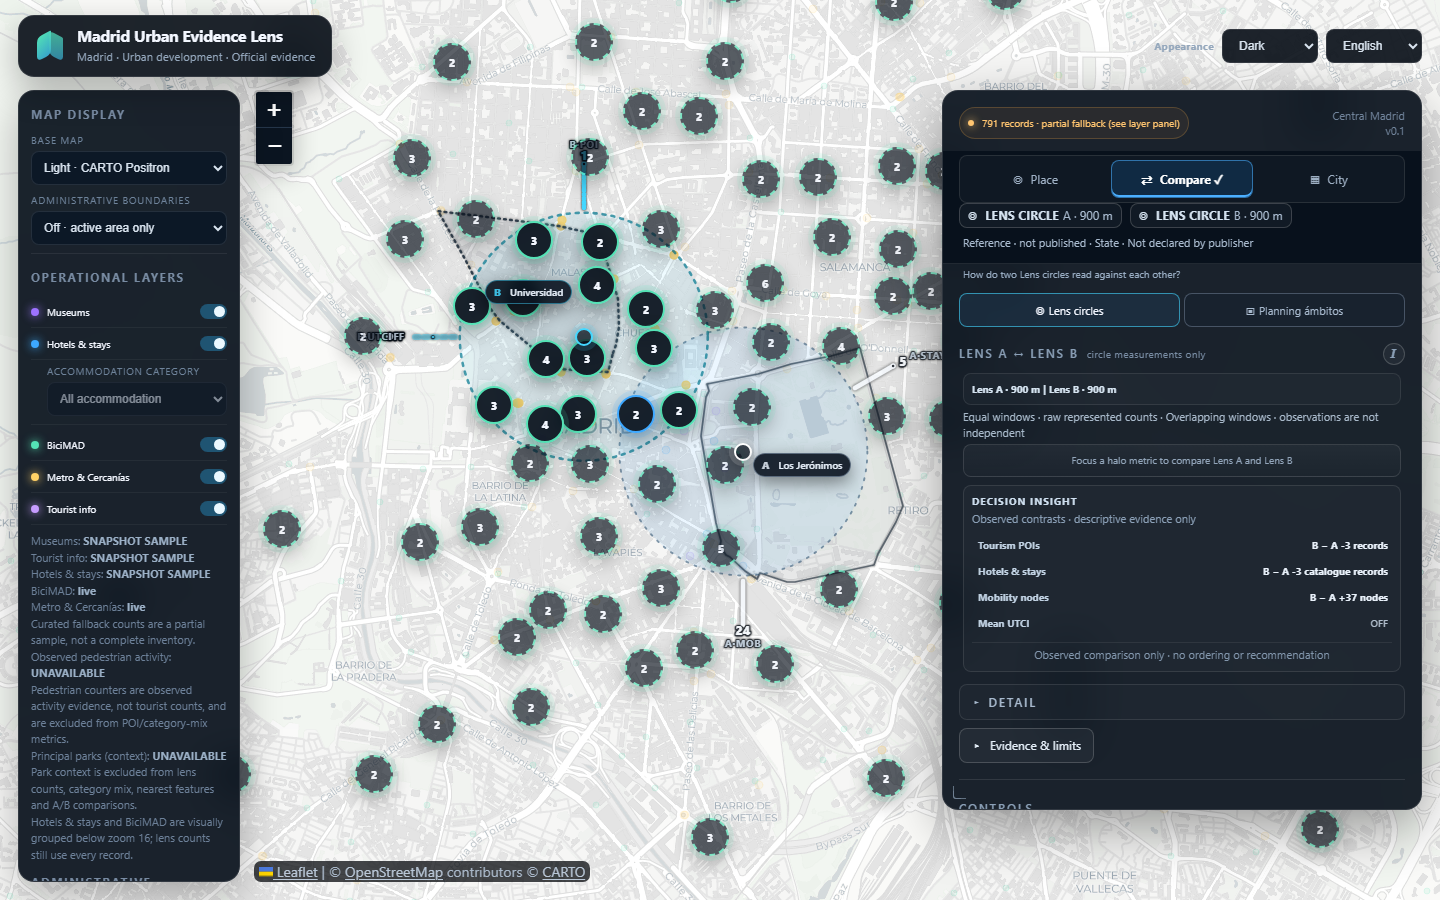
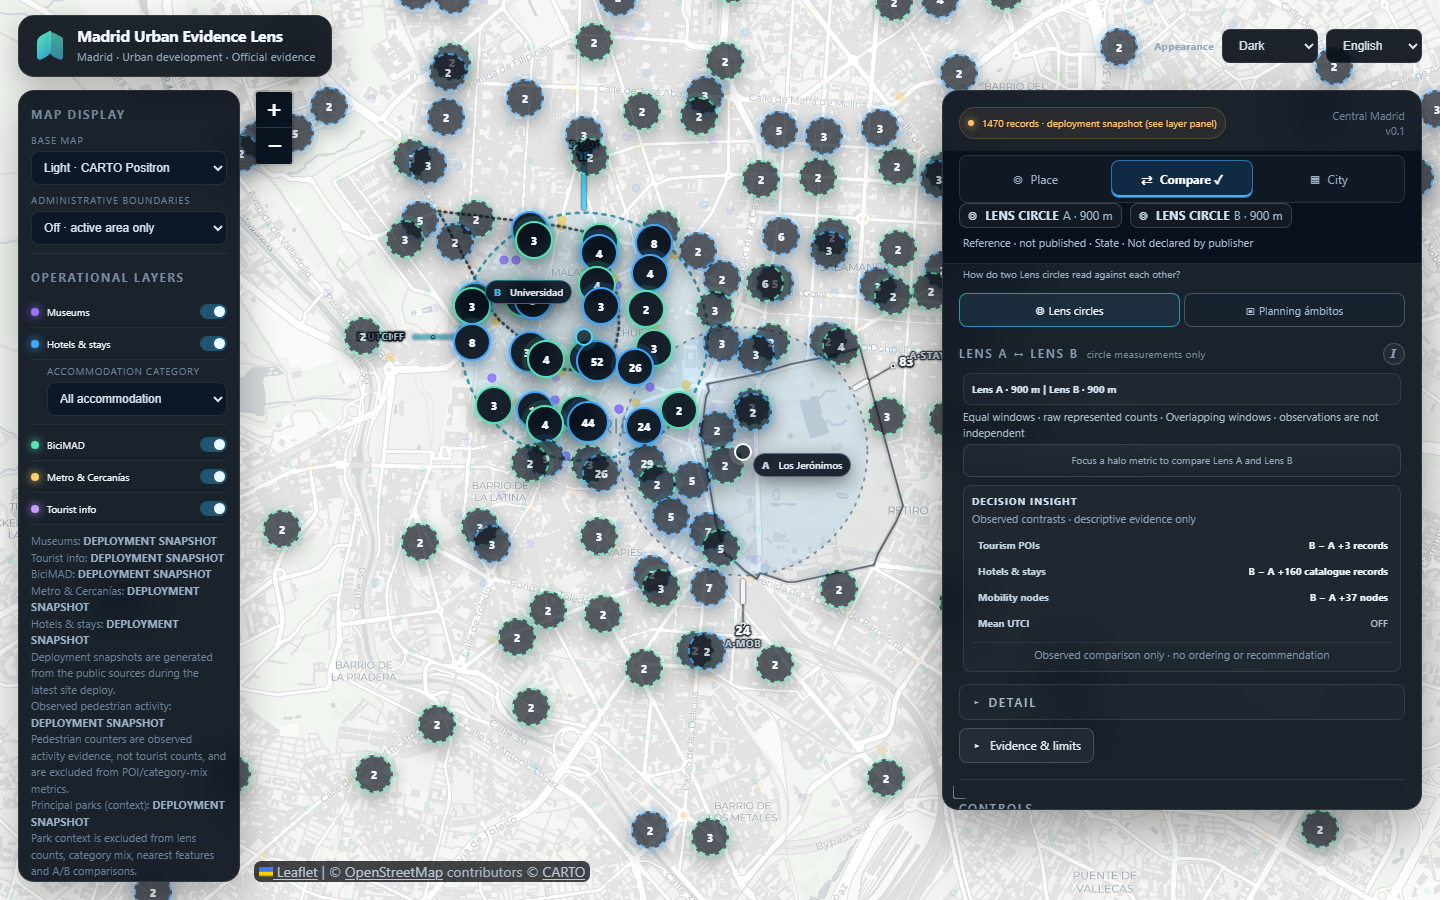
fix: polish appearance evidence and mobile control

diff --git a/css/app.css b/css/app.css
@@ -985,6 +985,7 @@ select,.smallbtn{width:100%;border:1px solid var(--line);background:#0c1826;colo
    collapse; they are never deleted. */
 .header-tools{pointer-events:auto;margin-left:auto;display:flex;align-items:center;gap:var(--s-2)}
 .appearance-control{display:flex;align-items:center;gap:var(--s-2);color:var(--chrome-text-brand-subtle);font-size:var(--t-micro);font-weight:650;letter-spacing:.04em}
+.appearance-control>span{font-size:var(--t-micro)}
 .header-tools select{width:auto;min-width:96px;padding:var(--s-2) var(--s-3);font-size:var(--t-meta);border:1px solid var(--chrome-border);border-radius:var(--r-small);background:var(--chrome-header-surface);color:var(--chrome-text-control-value)}
 .header-tools select:focus-visible{outline:2px solid var(--chrome-focus-ring-color);outline-offset:2px}
 
@@ -1094,8 +1095,9 @@ select,.smallbtn{width:100%;border:1px solid var(--line);background:#0c1826;colo
   .header-tools select{min-width:88px;padding:var(--s-1) var(--s-2)}
 }
 @media(max-width:560px){
-  .appearance-control>span{position:absolute;width:1px;height:1px;padding:0;margin:0;overflow:hidden;clip-path:inset(50%);white-space:nowrap;border:0}
-  #appearanceSelect{min-width:82px}
+  .appearance-control{position:relative;display:block;min-width:88px}
+  .appearance-control>span{position:absolute;z-index:1;left:9px;top:5px;max-width:58px;overflow:hidden;color:var(--chrome-text-brand-subtle);line-height:1;letter-spacing:.02em;white-space:nowrap;pointer-events:none}
+  #appearanceSelect{min-width:88px;padding:var(--s-4) calc(3 * var(--s-2)) var(--s-1) var(--s-2);line-height:1.1}
   /* Map-first on phones: an explicit 44px control replaces the always-open rail.
      The entire original six-group rail remains reachable when requested. */
   .mobile-layers-button{display:inline-flex}
@@ -1416,26 +1418,41 @@ select,.hospitality-controls select,.header-tools select,.basemap-control select
 :root[data-appearance="light"] .panel::-webkit-scrollbar-thumb{background:#a6b2bf}
 :root[data-appearance="light"] .skip-link:focus{background:#fff;color:#16222f}
 
-/* Establish a legible floor for legacy descendants that still carry a
-   consumer-specific Dark literal. More specific identity/status rules below
-   restore their documented distinctions. */
-:root[data-appearance="light"] .left *,
-:root[data-appearance="light"] .panel *,
-:root[data-appearance="light"] .evidence-drawer *{color:var(--muted)}
-:root[data-appearance="light"] :where(.brand-title,.left .layer-left,.left summary,.panel h1,.panel h2,.panel h3,.panel h4,.panel h5,.panel h6,.panel strong,.panel b,.panel dd,.panel button,.evidence-drawer h1,.evidence-drawer h2,.evidence-drawer h3,.evidence-drawer h4,.evidence-drawer h5,.evidence-drawer h6,.evidence-drawer strong,.evidence-drawer b,.evidence-drawer dd,.evidence-drawer button){color:var(--text)}
+/* Light colours are assigned by semantic role. Avoid descendant-wide colour
+   floors: they erase consumer-owned A/B, availability and withholding states. */
 :root[data-appearance="light"] :where(.poi-cluster,.poi-cluster *){color:#fff}
 :root[data-appearance="light"] .live{color:#17663f;border-color:#6da88b;background:#edf8f2}
 :root[data-appearance="light"] .live i{background:#17663f;box-shadow:none}
 :root[data-appearance="light"] .live.mixed{color:#6b450b;border-color:#b68a4c;background:#fff8ec}
 :root[data-appearance="light"] .live.mixed i{background:#8a5a12;box-shadow:none}
 
-:root[data-appearance="light"] .left :where(p,small,label),
-:root[data-appearance="light"] .panel :where(p,small,dt,label,th,td,summary),
-:root[data-appearance="light"] .evidence-drawer :where(p,small,dt,label,th,td,summary){color:var(--muted)}
-:root[data-appearance="light"] .panel :where(h1,h2,h3,h4,h5,h6,strong,b,dd),
-:root[data-appearance="light"] .evidence-drawer :where(h1,h2,h3,h4,h5,h6,strong,b,dd){color:var(--text)}
-:root[data-appearance="light"] :where(.section-head span,.section-head small,.area-context,.area-codes,.area-value-label,.area-period,.area-scope p,.area-vut-title,.area-vut-unit,.area-vut-secondary,.area-vut-state,.area-other,.area-other-lens,.area-source-details,.area-source-group-title,.planning-code-label,.planning-distinction,.planning-edition,.planning-outside,.planning-block-head,.planning-block-note,.planning-absent,.planning-phase-field,.planning-phase-note,.planning-attributes dt,.planning-scope-note,.planning-situacion,.planning-use-label,.planning-use-unit,.planning-citizen>p,.planning-ceiling,.planning-change-intro,.planning-change-scope,.planning-change-dates span,.planning-change-numeric-values small,.planning-change-values>span:first-child,.planning-change-values small,.planning-change-detail,.planning-change-caveat,.planning-change-provenance-edition,.drawer-change-edition>p,.planning-touched,.planning-touched-centre,.planning-membership-chip-name,.lic-block-head,.lic-window-field,.lic-family-head,.lic-family-name,.cmp-evidence,.compare-evidence,.halo-visibility-note,.destination-period-label,.destination-metric-head,.destination-metric-exact,.destination-metric-change,.destination-composition,.destination-state,.destination-ceiling,.domestic-origin-scope,.domestic-origin-universe,.domestic-origin-dynamics-relationship,.domestic-origin-dynamics-table-heading,.source,.mode-question,.scope-instance,.scope-rail-freshness,.metric .scope-glyph,.detail-disclosure>summary,.drawer-filter,.drawer-fields dt,.drawer-notes>h3,.k11-notice-message){color:var(--muted)}
-:root[data-appearance="light"] :where(.planning-denomination,.planning-code,.planning-phase-value,.planning-phase-mark,.planning-attributes dd,.planning-use-value,.planning-citizen>summary,.planning-change>summary,.planning-change-analyst>summary,.planning-change-dates strong,.planning-change-outcome h3,.planning-build-comparison h3,.planning-change-analyst h3,.planning-change-label,.planning-change-numeric-values,.planning-change-cell strong,.planning-change-provenance-edition strong,.planning-touched-code,.planning-membership-count,.lic-family-count,.cmp-value,.ss-reading-value,.ss-transition,.comparetable td:last-child,.destination-place,.destination-metric-value,.domestic-origins-head,.domestic-origin-dynamics-summary b,.domestic-origin-dynamics-transitions summary,.scope-rail-item,.evidence-link,.evidence-route,.drawer-record>h3,.drawer-source>h4,.drawer-fields dd,.drawer-ceiling,.drawer-ceiling b){color:var(--text)}
+:root[data-appearance="light"] :where(.section-head span,.section-head small,.area-context,.area-codes,.area-value-label,.area-period,.area-scope p,.area-vut-title,.area-vut-unit,.area-vut-secondary,.area-vut-state,.area-other,.area-other-lens,.area-source-details,.area-source-group-title,.planning-code-label,.planning-distinction,.planning-edition,.planning-outside,.planning-block-head,.planning-block-note,.planning-absent,.planning-phase-field,.planning-phase-note,.planning-attributes dt,.planning-scope-note,.planning-situacion,.planning-use-label,.planning-use-unit,.planning-citizen>p,.planning-ceiling,.planning-change-intro,.planning-change-scope,.planning-change-dates span,.planning-change-numeric-values small,.planning-change-values>span:first-child,.planning-change-values small,.planning-change-detail,.planning-change-caveat,.planning-change-provenance-edition,.drawer-change-edition>p,.planning-touched,.planning-touched-centre,.planning-membership-chip-name,.lic-block-head,.lic-state,.lic-window-field,.lic-window-applied,.lic-window-clamped,.lic-family-head,.lic-family-name,.lic-family-unit,.lic-coverage-line,.lic-unmatched-line,.lic-residual,.lic-ceiling-line,.lic-citizen summary,.lic-citizen p,.lic-provenance summary,.lic-provenance p,.cmp-evidence,.compare-evidence,.halo-visibility-note,.destination-period-label,.destination-metric-head,.destination-metric-exact,.destination-metric-change,.destination-composition,.destination-state,.destination-ceiling,.domestic-origin-scope,.domestic-origin-universe,.domestic-origin-dynamics-relationship,.domestic-origin-dynamics-table-heading,.source,.mode-question,.scope-instance,.scope-rail-freshness,.metric .scope-glyph,.detail-disclosure>summary,.drawer-filter,.drawer-fields dt,.drawer-notes>h3,.k11-notice-message,.cb-sub,.cb-radius,.cb-rel-label,.cb-qualifier,.di-status,.di-metric,.di-guard,.ss-status,.ss-empty,.ss-notice,.ss-window-label,.ss-reading-label,.ss-transition-detail,.ss-guard){color:var(--muted)}
+:root[data-appearance="light"] :where(.planning-denomination,.planning-code,.planning-phase-value,.planning-phase-mark,.planning-attributes dd,.planning-use-value,.planning-citizen>summary,.planning-change>summary,.planning-change-analyst>summary,.planning-change-dates strong,.planning-change-outcome h3,.planning-build-comparison h3,.planning-change-analyst h3,.planning-change-label,.planning-change-numeric-values,.planning-change-cell strong,.planning-change-provenance-edition strong,.planning-touched-code,.planning-membership-count,.lic-family-count,.cmp-value,.cb-metric-name,.cb-value,.cb-rel-value,.di-rel,.ss-window-radii,.ss-reading-value,.ss-transition,.comparetable td:last-child,.destination-place,.destination-metric-value,.domestic-origins-head,.domestic-origin-dynamics-summary b,.domestic-origin-dynamics-transitions summary,.scope-rail-item,.evidence-link,.evidence-route,.drawer-record>h3,.drawer-source>h4,.drawer-fields dd,.drawer-ceiling,.drawer-ceiling b){color:var(--text)}
+:root[data-appearance="light"] .comparison-bridge[data-relationship="withheld"] .cb-rel-value,
+:root[data-appearance="light"] .di-item[data-state="withheld"] .di-rel,
+:root[data-appearance="light"] .di-item[data-state="unavailable"] .di-rel,
+:root[data-appearance="light"] .di-item[data-state="off"] .di-rel,
+:root[data-appearance="light"] .ss-reading[data-comparable="false"] .ss-reading-value{color:#526275}
+:root[data-appearance="light"] :where(.di-item[data-focused="true"],.ss-item[data-focused="true"]){background:#e8f1f8;border-left-color:#075f9a}
+:root[data-appearance="light"] :where(.di-item[data-focused="true"] .di-metric,.di-item[data-focused="true"] .di-rel,.ss-item[data-focused="true"] .ss-metric,.ss-item[data-focused="true"] .ss-transition){color:#123b5f}
+
+/* Legacy surface roles with Dark literals. Each selector names the consuming
+   component so status and identity descendants can continue to own colour. */
+:root[data-appearance="light"] :where(.layer-source-note,.rail-group-note,.status small,#placeCircleSummaryRadius,.place-circle-reading>span,.place-circle-reading>small,.area-source-toggle,.planning-source-toggle,.metric-head span,.metric-foot,.mixrow,.nearest li,.reading-btn,.comparison-radius-readout,.comparison-mode-cue,.comparison-bridge-empty,.halo-toggle span,.halo-toggle small,.halo-legend,.destination-provisional,.domestic-origin-controls label,.domestic-origin-dynamics-transitions div>span){color:var(--muted)}
+:root[data-appearance="light"] .place-circle-summary-head>#placeCircleSummaryRadius{color:var(--muted)}
+:root[data-appearance="light"] :where(.layer-source-note b,.place-circle-summary-head>span:first-child,.place-circle-reading>strong,.mixrow b,.drawer-change-provenance h5,.drawer-change-edition h6,.area-other-body b,.decision-insight .di-title,.spatial-sensitivity .ss-title){color:var(--text)}
+:root[data-appearance="light"] .comparetable th,
+:root[data-appearance="light"] .comparetable td{color:var(--muted)}
+:root[data-appearance="light"] .comparetable th .cmp-metric-focus,
+:root[data-appearance="light"] .comparetable td:last-child,
+:root[data-appearance="light"] .comparetable .panel-only-metric th{color:var(--text)}
+:root[data-appearance="light"] .domestic-origin-dynamics-transitions summary,
+:root[data-appearance="light"] .domestic-origin-dynamics-transitions summary *{color:var(--text)}
+:root[data-appearance="light"] .domestic-origin-dynamics-summary span{color:var(--muted)}
+:root[data-appearance="light"] .mix-label,
+:root[data-appearance="light"] .layer-action{color:#6b450b}
+:root[data-appearance="light"] .lensbtn.a{color:var(--ta3-lens-a-control-text);border-color:var(--ta3-lens-a-control-border)}
+:root[data-appearance="light"] .lensbtn.b{color:var(--ta3-lens-b-control-text);border-color:var(--ta3-lens-b-control-border)}
 
 :root[data-appearance="light"] :where(.area-figure,.area-vut,.area-source-details,.planning-block,.planning-citizen,.planning-change,.planning-change-outcome,.planning-change-numeric-row,.planning-membership,.planning-membership-chip,.lic-window,.lic-family,.metric,.card,.ss-item,.destination-metric,.domestic-origin-dynamics-summary>div,.domestic-origin-dynamics-transitions details,.detail-disclosure){background:var(--chrome-card-surface);border-color:var(--chrome-border)}
 :root[data-appearance="light"] :where(.rail-group>summary,.place-jump-chip,.scope-rail-item,.evidence-link,.evidence-route){background:#f2f5f8;border-color:var(--line2);color:var(--text)}

diff --git a/research/ux_t1_appearance/README.md b/research/ux_t1_appearance/README.md
@@ -1,10 +1,24 @@
 # UX-T1 Appearance implementation — visual proof
 
 These captures are generated from the real local implementation by `capture.mjs`.
-They use Chromium/Playwright, the repository's deterministic fallback data, the
-deployed runtime basemap configuration proxied in memory (never stored), and live
-basemap tiles (which are not version-pinned). They are browser emulation, not
-real iPad/Safari hardware testing.
+They use Chromium/Playwright and proxy the validated deployment's generated
+`runtime_poi.json`, `deployment_manifest.json`, `pedestrian_activity.json`, and
+runtime basemap configuration in memory. The manifest records the URL, byte size
+and SHA-256 of every proxied asset without storing the runtime configuration or
+other generated artifacts. Committed static evidence assets are served from the
+implementation branch, and basemap tiles are live and not version-pinned.
+
+The harness accepts the deployed data only when the deployment manifest is a
+validation pass, its operational-record total matches the runtime POI artifact,
+all runtime POI layers are available, and the pedestrian artifact is available.
+If that verification fails, captures are explicitly labelled
+`repository-fallback` with the limitation in the manifest; they are never
+presented as production-realistic evidence.
+
+Before each screenshot the harness waits for the 1,470-record deployment badge,
+administrative and planning hydration, mode-specific content, a loaded tile,
+fonts, and a stable application-state signature. These are browser-emulated
+captures, not real iPad/Safari hardware testing.
 
 ## What visibly changes
 
